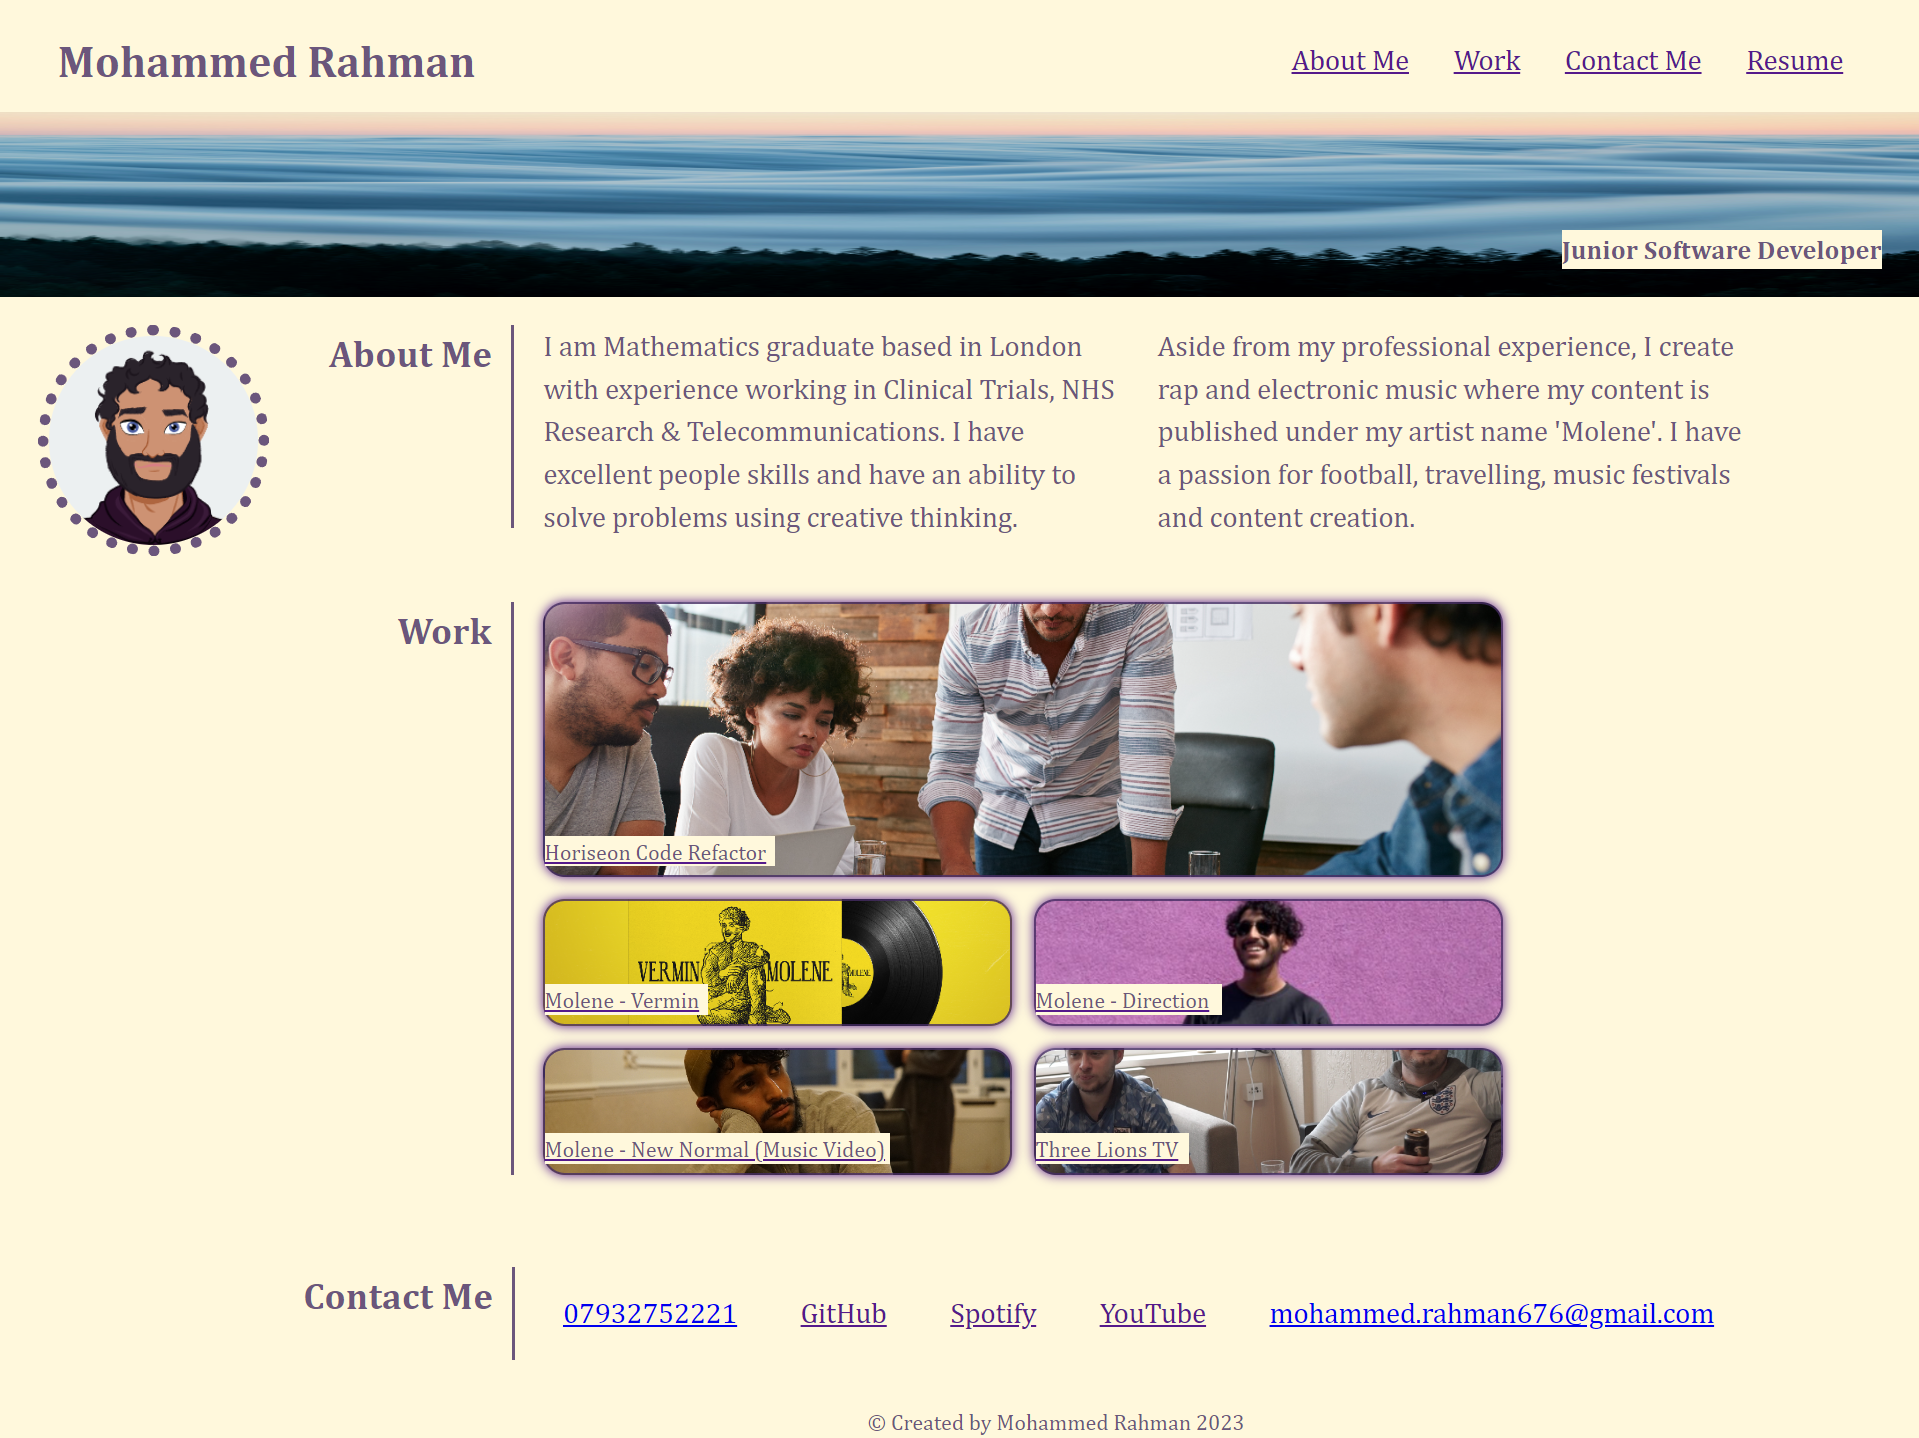
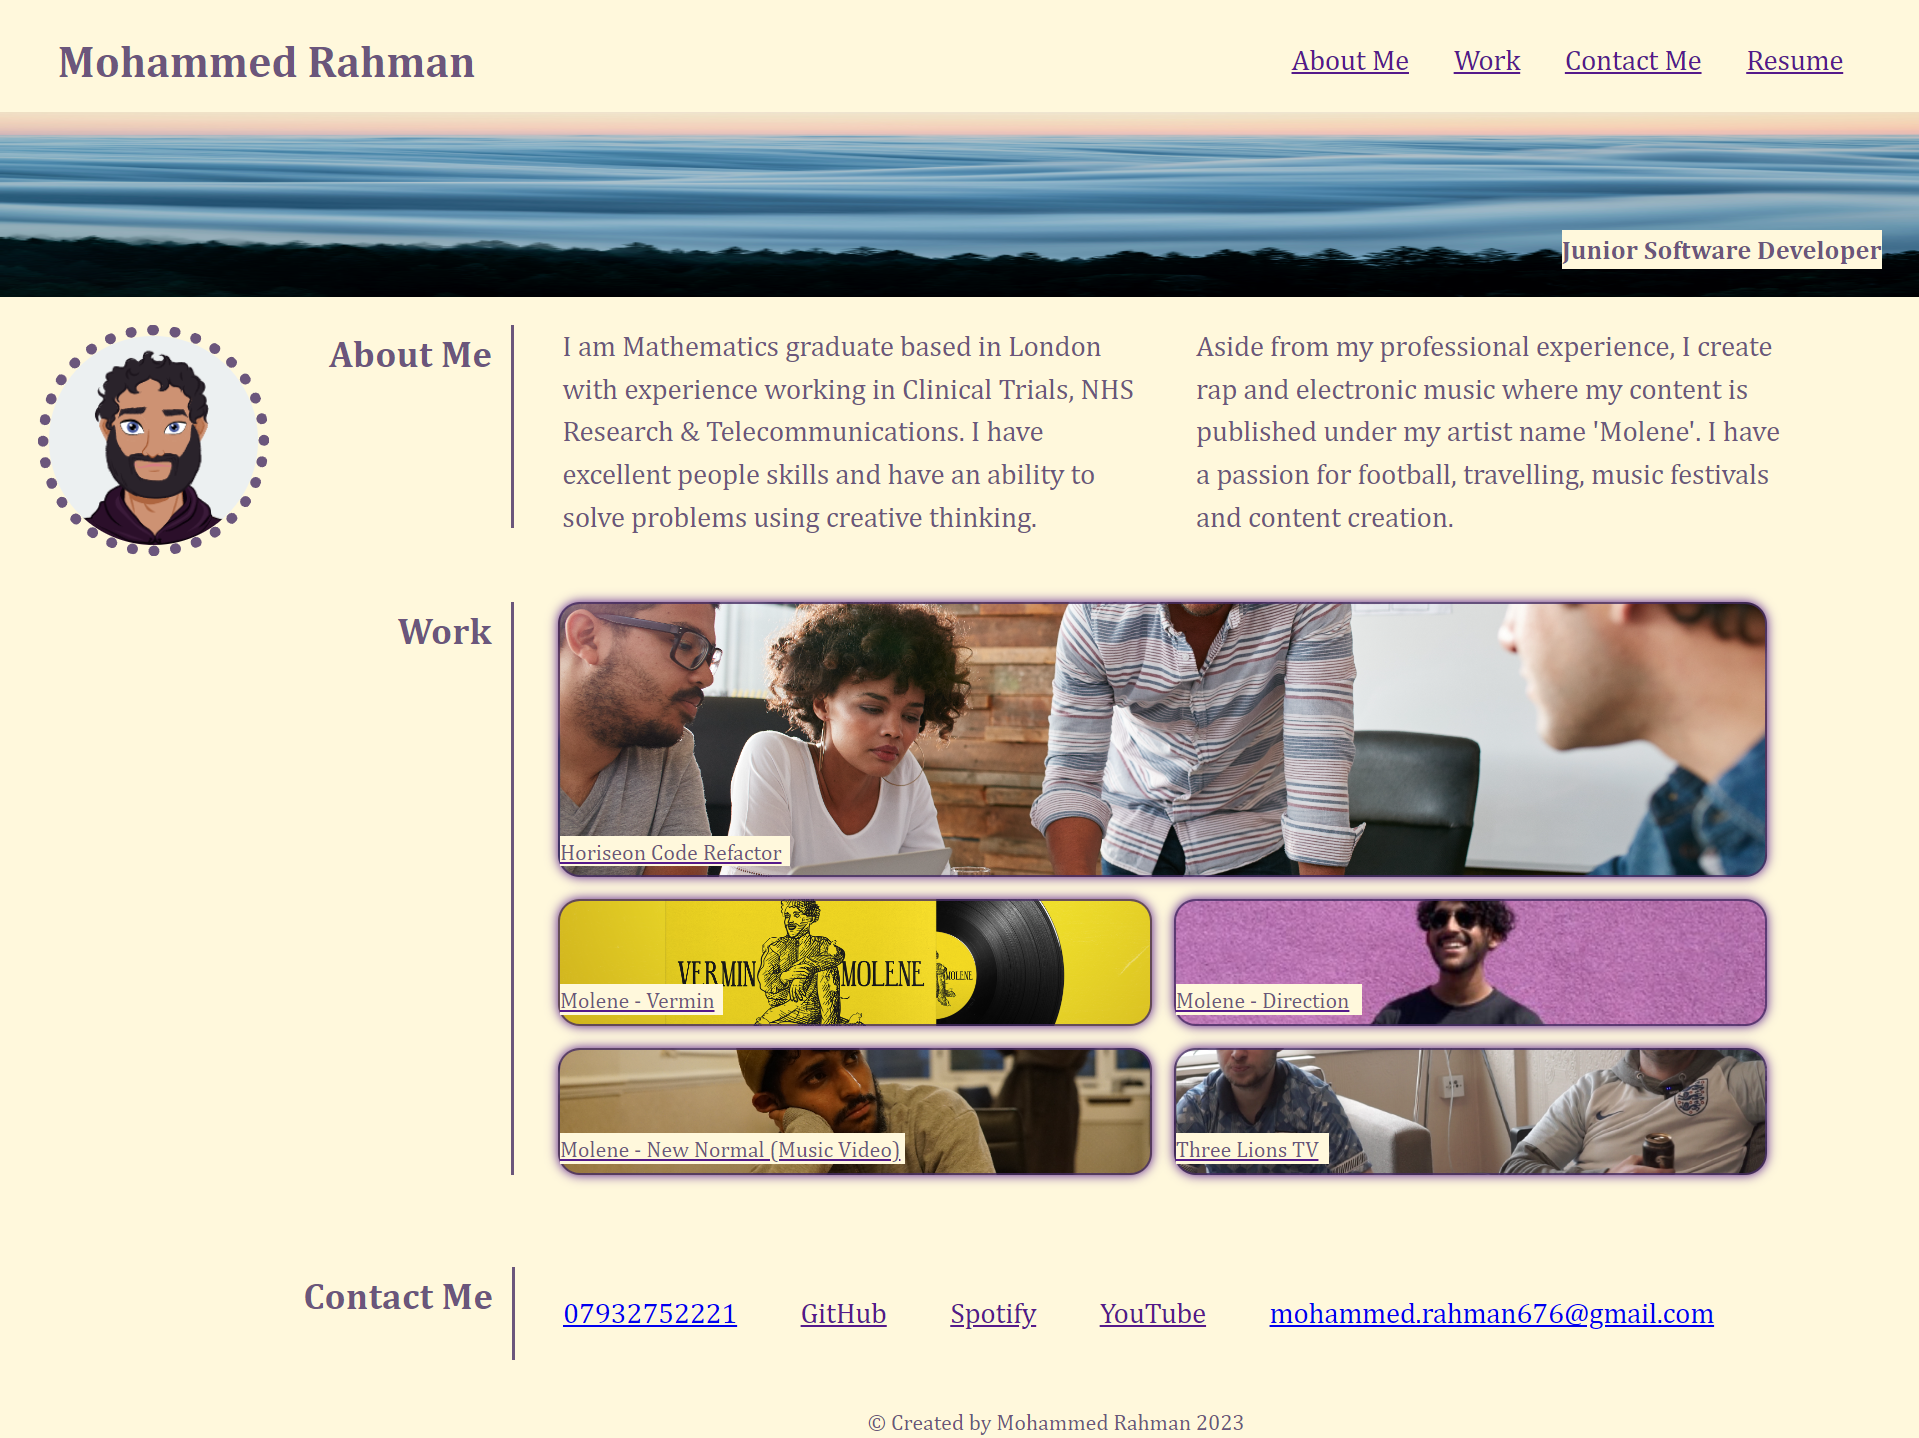
updated screenshot

Changed region(s): [[0.2767, 0.3978, 0.9224, 0.8261], [0.2767, 0.2142, 0.9224, 0.3672]]

diff --git a/css/portfolio.css b/css/portfolio.css
@@ -133,10 +133,10 @@ main {
 }
 
 .about-me p {
-  padding-left: 1.5vw;
+  padding-left: 2.5vw;
   font-size: 1.3rem;
   color: var(--text-color);
-  max-width: 32vw;
+  max-width: 33vw;
 }
 
 /* Work Portfolio */
@@ -154,7 +154,7 @@ main {
 
 .work-grid-style {
   width: 63vw;
-  margin-left: 1.5vw;
+  margin-left: 2.3vw;
   height: 62vh;
   grid-gap: 1rem;
 }
